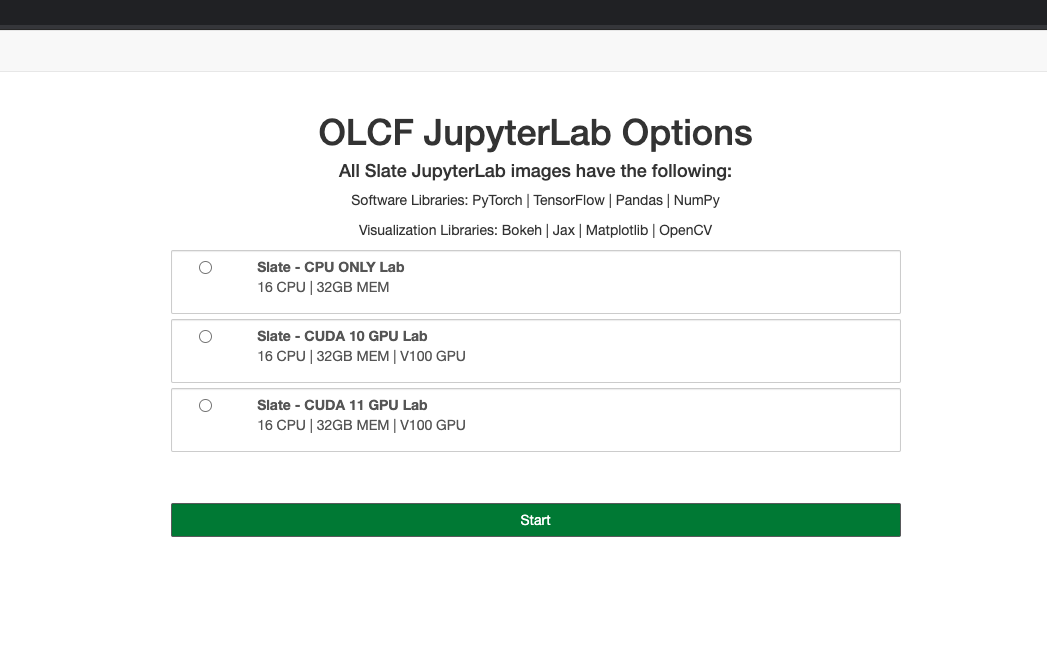
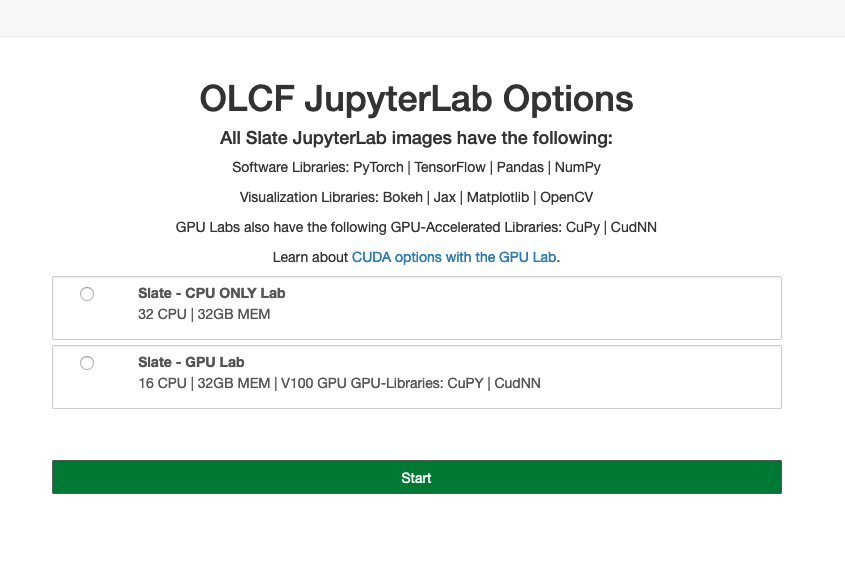
updating Jupyterlab doc to reflect new lab and cuda environment structure

diff --git a/services_and_applications/jupyter/overview.rst b/services_and_applications/jupyter/overview.rst
@@ -39,8 +39,9 @@ The above link will present you with the page below. Please login with your OLCF
 
 After succesfull authentication you will be presented with a choice of JupyterLab images (similar to the image below):
 
-- CPU-Only
-- GPU-Lab(s) with varying CUDA version
+- CPU-Only Lab
+- GPU-Lab
+
 
 **NOTE: These GPU-enabled labs are limited. You may get get a message saying the resource is not schedulable, if all GPUs in the pool are occupied.**
 
@@ -49,7 +50,10 @@ After succesfull authentication you will be presented with a choice of JupyterLa
 
 **Select the lab you would like and click "Start".**
 
-Once inside a lab, you will be presented with the default notebook/environment in the "launcher" page of the JupyterLab interface. You can read about the default environment more, below, in the "Conda Environments" section. In addtion, that section will show you how to create your own Conda Environments.
+The CPU Lab provides a single default notebook/environment in the "launcher" page of the Jupyterlab interface.
+The GPU Lab provides options for CUDA 10 and CUDA 11 environments.
+
+You can read about the environments more, below, in the "Conda Environments" section. In addtion, that section will show you how to create your own Conda Environments.
 
 Once inside the JupyterLab, please take a moment to explore the interface.
 
@@ -58,6 +62,9 @@ To read more about the JupyterLab interface, in general, please check out this w
 
 CPU vs. GPU JupyterLab (Available Resources)
 --------------------------------------------
+
+Hardware Resources
+^^^^^^^^^^^^^^^^^^
 
 Each single-user JupyterLab, spawned by OLCF's JupyterHub, gets these default resources:
 
@@ -69,9 +76,19 @@ Each single-user JupyterLab, spawned by OLCF's JupyterHub, gets these default re
 
 The CPU-only JupyterLab is limited to the above resources.
 
-The GPU-enabled JupyterLab will launch a notebook onto a resource containing a GPU (in addtion to the above resources). This allows you to experiment with GPU-enabled anaylytics from JupyterLab.
+The GPU-enabled JupyterLab will launch a notebook onto a resource containing a GPU (in addtion to the above resources). This allows you to experiment with GPU-enabled analytics from JupyterLab.
 
-**NOTE: These GPU-enabled labs are limited. You may get get a message saying the resource is not schedulable, if all GPUs in the pool are occupied.**
+Software and Libraries
+^^^^^^^^^^^^^^^^^^^^^^
+
+Both CPU and GPU labs have the standard analysis and ML libraries: PyTorch, TensorFlow,
+Pandas, NumPy; and visualization libraries: Bokeh, Jax, Matplotlib, OpenCV. To see the
+full list of installed libraries, open a Console from the Launcher page and type in
+``conda list``. These libraries should cover most use cases. You can also find
+instructions for setting up a custom conda environment for use with JupyterLab further
+down.
+
+The GPU lab provides two different environments, CUDA10 and CUDA11. **GPU support for Tensorflow is currently only available in the CUDA10 environment.** Tensorflow only has CPU support in the other environments. Both the CUDA10 and CUDA11 environments provide GPU support for PyTorch, CuPy, and CudNN. 
 
 
 Working within GPFS and NFS (Launching a notebook)
@@ -107,8 +124,8 @@ the Launcher and type ``conda list``. The libraries in the base environment shou
 cover most use cases. This base environment is provided to the default "Python 3" notebook, visible in the 
 JupyterLab "Launcher" page.
 
-From the Terminal, you can install additional libraries with a simple ``conda install`` to
-use in your current session. But these installed libraries won't persist across sessions
+From the Console of a particular environment, you can install additional libraries with a simple ``conda install`` to
+use in that particular environment in the current session. But these installed libraries won't persist across sessions
 if your server is restarted. 
 
 
